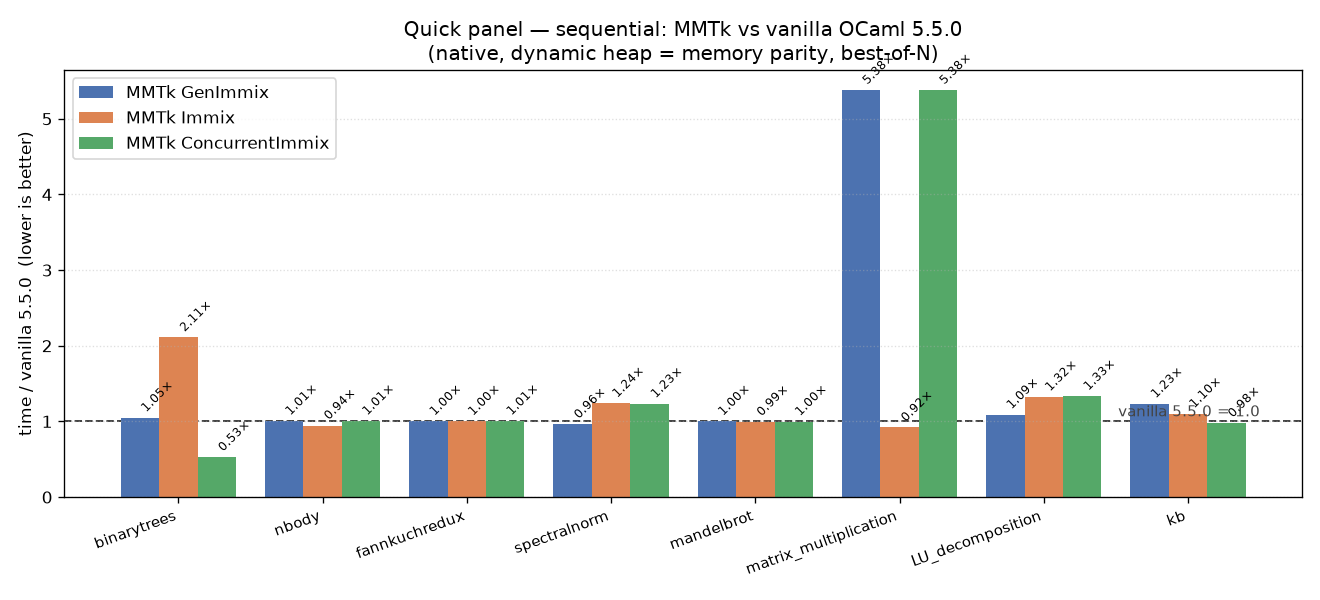
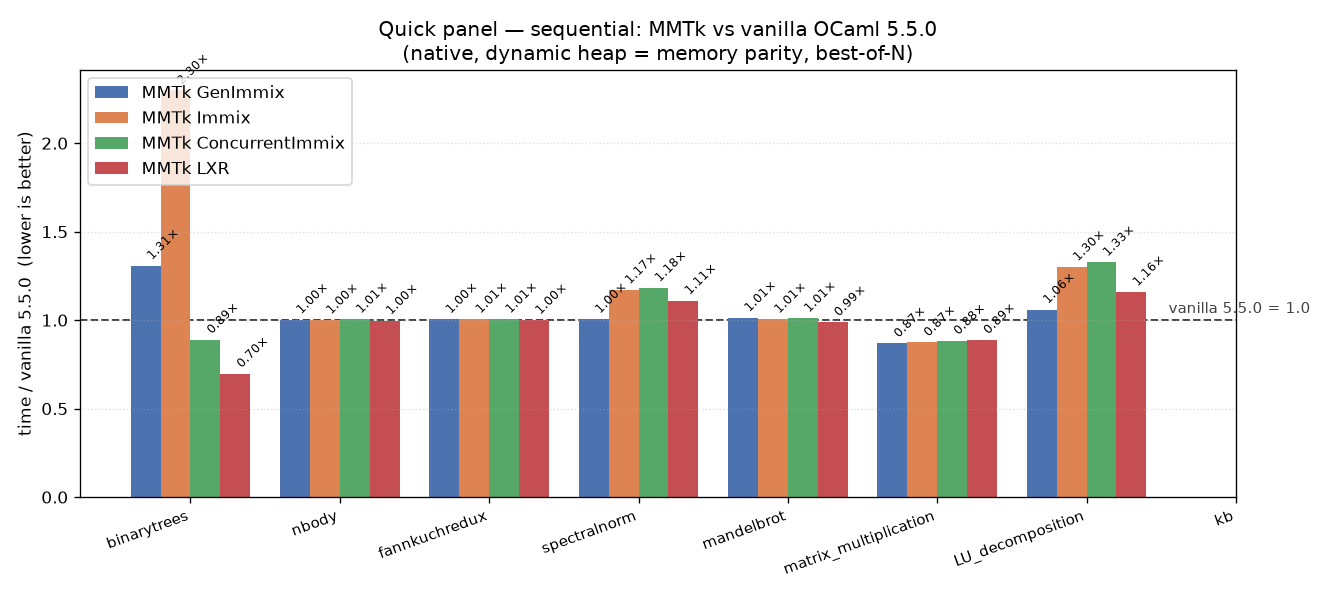
quick: measure maxRSS + render RSS chart; per-bench memory-parity heaps for LXR
quickbench.py now measures max RSS per cell (portable os.wait4 ru_maxrss, byte->KiB
on macOS) alongside wall, prints it, and renders a second graph seq_rss.png (per-bench
max RSS) below the wall chart seq_ratio.png. Adds a `--heap parity` mode + PARITY_HEAPS
so plans without a dynamic-heap trigger (LXR) are pinned per bench at each bench's
dynamic footprint — the honest memory-parity comparison (a flat generous heap makes GC
barely fire and hides the result). Regenerated both charts with vanilla/GenImmix/Immix/
ConcurrentImmix (dynamic) + LXR (parity): LXR fastest on binarytrees (0.70x vs vanilla),
at parity on compute, slower on kb, and highest RSS across the board (the RC metadata tax).

diff --git a/quick/quickbench.py b/quick/quickbench.py
@@ -17,7 +17,8 @@ the header, so `uv` fetches them per-run; no venv, no global install) that:
     group (some plans, e.g. ConcurrentImmix, deadlock on some benches),
   * prints a table (+ optional ASCII bar chart),
   * writes NDJSON results, and
-  * renders PNG graphs (seq ratio bars + speedup-vs-domains lines).
+  * renders PNG graphs (seq wall-ratio bars + seq max-RSS bars +
+    speedup-vs-domains lines).
 
 USAGE
   uv run quick/quickbench.py [seq|par|all] [options]
@@ -102,6 +103,7 @@ import signal
 import statistics
 import subprocess
 import sys
+import threading
 import time
 
 HERE = os.path.dirname(os.path.abspath(__file__))
@@ -125,6 +127,16 @@ CI = {
     "spectralnorm": "200", "mandelbrot": "200", "matrix_multiplication": "64",
     "LU_decomposition": "64", "par_spectralnorm": "200", "par_matmul": "64",
     "par_binarytrees": "12", "chameneos_redux": "2000", "kb": "5",
+}
+# Per-bench MEMORY-PARITY heaps (MiB) for `--heap parity`: each bench pinned at ~the
+# footprint the dynamic (live x2.2) policy picks for it (measured as GenImmix's dynamic
+# max RSS, M4 Pro, PERF sizes). Used to bench plans that have NO dynamic-heap trigger
+# (LXR) at the SAME memory the dynamic plans use — the honest, per-bench memory-parity
+# comparison (a flat generous heap makes GC barely fire and hides the result). RSS is
+# still measured and charted, so parity is verifiable rather than assumed.
+PARITY_HEAPS = {
+    "binarytrees": 208, "nbody": 32, "fannkuchredux": 32, "spectralnorm": 96,
+    "mandelbrot": 32, "matrix_multiplication": 48, "LU_decomposition": 112, "kb": 96,
 }
 
 COLORS = {
@@ -253,12 +265,18 @@ def threads_label(a):
     return f"nproc({os.cpu_count()})"
 
 
-def cell_env(a, plan, dom):
+def cell_env(a, plan, dom, bench=None):
     e = dict(os.environ)
     e["OCAMLLIB"] = STDLIB
     if plan:
         e["MMTK_PLAN"] = plan
-        if a.heap != "dynamic":
+        if a.heap == "parity":
+            # per-bench memory-parity heap (see PARITY_HEAPS); pin at that bench's
+            # dynamic footprint so no-dynamic-heap plans (LXR) run at the same memory.
+            hp = PARITY_HEAPS.get(bench)
+            if hp is not None:
+                e["MMTK_HEAP_SIZE_MB"] = str(hp)
+        elif a.heap != "dynamic":
             e["MMTK_HEAP_SIZE_MB"] = str(a.heap)
         # GC-worker count. Default policy "domains" sets workers = this cell's
         # domain count (single-domain -> 1 worker; the parallel sweep scales GC
@@ -271,52 +289,102 @@ def cell_env(a, plan, dom):
     return e
 
 
+def _maxrss_kib(rusage):
+    """Normalize rusage.ru_maxrss to KiB. Linux reports KiB already; macOS
+    (Darwin) reports BYTES. Returns None if unavailable."""
+    if rusage is None:
+        return None
+    try:
+        rss = rusage.ru_maxrss
+    except AttributeError:
+        return None
+    if rss is None:
+        return None
+    return (rss // 1024) if sys.platform == "darwin" else rss
+
+
 def run_once(cmd, env, timeout):
-    """Run cmd; return (elapsed_ms, status). status: 'ok'|'hang'|'err'.
-    Kills the whole process group on timeout (hung GC workers included)."""
+    """Run cmd; return (elapsed_ms, rss_kib, status). status: 'ok'|'hang'|'err'.
+    Kills the whole process group on timeout (hung GC workers included).
+    RSS (peak, KiB) comes from os.wait4's rusage on the success path; it is
+    None if the child couldn't run or was killed on timeout."""
     t0 = time.monotonic()
     try:
         p = subprocess.Popen(cmd, env=env, stdout=subprocess.DEVNULL,
                              stderr=subprocess.DEVNULL, start_new_session=True)
     except FileNotFoundError:
-        return None, "err"
-    try:
-        rc = p.wait(timeout=timeout if timeout and timeout > 0 else None)
-    except subprocess.TimeoutExpired:
+        return None, None, "err"
+
+    # Timeout/kill path: os.wait4() has no timeout, so arm a watchdog Timer that
+    # SIGKILLs the whole process group (hung GC workers included) on expiry. The
+    # kill makes the blocked wait4() below return, and we report 'hang'.
+    timed_out = {"fired": False}
+
+    def _kill_group():
+        timed_out["fired"] = True
         try:
             os.killpg(os.getpgid(p.pid), signal.SIGKILL)
-        except ProcessLookupError:
+        except (ProcessLookupError, OSError):
             pass
-        p.wait()
-        return None, "hang"
+
+    timer = None
+    if timeout and timeout > 0:
+        timer = threading.Timer(timeout, _kill_group)
+        timer.start()
+
+    # Reap with wait4 to get rusage (peak RSS). On EINTR/ECHILD fall back
+    # cleanly rather than crash.
+    rusage = None
+    try:
+        _, wstatus, rusage = os.wait4(p.pid, 0)
+        rc = os.waitstatus_to_exitcode(wstatus)
+    except ChildProcessError:
+        rc = p.poll() if p.poll() is not None else -1
+        wstatus = None
+    finally:
+        if timer is not None:
+            timer.cancel()
+    # Keep Popen's internal bookkeeping consistent (child already reaped).
+    p.returncode = rc if isinstance(rc, int) else -1
+
+    if timed_out["fired"]:
+        return None, None, "hang"
+
     ms = (time.monotonic() - t0) * 1000.0
-    return (ms, "ok" if rc == 0 else "err")
+    rss_kib = _maxrss_kib(rusage)
+    return (ms, rss_kib, "ok" if rc == 0 else "err")
 
 
 def cell_median(a, variant, bench, args, dom):
-    """Best-of-reps median wall ms for one cell, or (None,'hang')."""
+    """One cell: return (median_wall_ms, max_rss_kib, status).
+    RSS is the PEAK across the measured reps; None if unavailable.
+    status: 'ok'|'hang'|'err'|'missing'."""
     exe = os.path.join(variant["dir"], f"{bench}." + ("byte" if a.bytecode else "native"))
     if not os.path.exists(exe):
-        return None, "missing"
+        return None, None, "missing"
     launcher = [variant["ocamlrun"]] if a.bytecode else []
     argv = [str(args)] + ([str(dom)] if dom is not None else [])
     k = dom if dom else 1
     cmd = pin_prefix(a, k) + setarch_prefix(a) + launcher + [exe] + argv
-    env = cell_env(a, variant["plan"], dom)
+    env = cell_env(a, variant["plan"], dom, bench)
     for _ in range(a.warmup):
-        _, st = run_once(cmd, env, a.timeout)
+        _, _, st = run_once(cmd, env, a.timeout)
         if st == "hang":
-            return None, "hang"
+            return None, None, "hang"
     times = []
+    rss_vals = []
     for _ in range(a.reps):
-        ms, st = run_once(cmd, env, a.timeout)
+        ms, rss, st = run_once(cmd, env, a.timeout)
         if st == "hang":
-            return None, "hang"
+            return None, None, "hang"
         if ms is not None:
             times.append(ms)
+        if rss is not None:
+            rss_vals.append(rss)
     if not times:
-        return None, "err"
-    return statistics.median(times), "ok"
+        return None, None, "err"
+    max_rss = max(rss_vals) if rss_vals else None
+    return statistics.median(times), max_rss, "ok"
 
 
 # ---- formatting ------------------------------------------------------------
@@ -342,22 +410,27 @@ def write_json(path, records):
 
 # ---- run modes -------------------------------------------------------------
 def run_seq(a, variants, sizes, records):
-    print("\n## sequential   (cells: median-ms | ratio-vs-baseline)")
-    colw = 22
+    print("\n## sequential   (cells: median-ms | ratio-vs-baseline // maxRSS-MiB))")
+    colw = 24
     hdr = f"{'bench':22s}" + "".join(f"{v['label']:<{colw}}" for v in variants)
     print(hdr)
-    print(f"{'-'*10:22s}" + "".join(f"{'-'*20:<{colw}}" for _ in variants))
+    print(f"{'-'*10:22s}" + "".join(f"{'-'*22:<{colw}}" for _ in variants))
     seq_med = {}      # bench -> label -> ms|None
+    seq_rss = {}      # bench -> label -> max-RSS MiB|None
     for b in SEQ_BENCHES:
         row = f"{b:22s}"
         base = None
         seq_med[b] = {}
+        seq_rss[b] = {}
         for v in variants:
-            med, st = cell_median(a, v, b, sizes[b], None)
+            med, rss_kib, st = cell_median(a, v, b, sizes[b], None)
+            rss_mib = round(rss_kib / 1024) if (st == "ok" and rss_kib is not None) else None
             seq_med[b][v["label"]] = med if st == "ok" else None
+            seq_rss[b][v["label"]] = rss_mib
             emit(records, mode="seq", bench=b, variant=v["label"],
                  plan=v["plan"] or "vanilla", domains=1, threads=threads_label(a),
                  median_ms=med if st == "ok" else None,
+                 rss_mib=rss_mib,
                  status=("ok" if st == "ok" else "hang" if st == "hang" else st))
             if st == "missing":
                 row += f"{'n/a':<{colw}}"; continue
@@ -366,10 +439,13 @@ def run_seq(a, variants, sizes, records):
             if base is None:
                 base = med
             ratio = f"{med/base:.2f}x" if base else "-"
-            row += f"{fmt_ms(med)+' | '+ratio:<{colw}}"
+            rss_str = f"{rss_mib}M" if rss_mib is not None else "?M"
+            cell = f"{fmt_ms(med)} | {ratio} // {rss_str}"
+            row += f"{cell:<{colw}}"
         print(row)
-    print(f"(ratio is vs the first variant: {variants[0]['label'] if variants else '-'} = 1.00x)")
-    return seq_med
+    print(f"(ratio is vs the first variant: {variants[0]['label'] if variants else '-'} = 1.00x; "
+          f"maxRSS = peak RSS across reps, MiB)")
+    return seq_med, seq_rss
 
 
 def run_par(a, variants, sizes, records):
@@ -382,10 +458,12 @@ def run_par(a, variants, sizes, records):
             row = f"{v['label']:<{lw}}"
             t1 = None
             for d in a.domains:
-                med, st = cell_median(a, v, b, sizes[b], d)
+                med, rss_kib, st = cell_median(a, v, b, sizes[b], d)
+                rss_mib = round(rss_kib / 1024) if (st == "ok" and rss_kib is not None) else None
                 emit(records, mode="par", bench=b, variant=v["label"],
                      plan=v["plan"] or "vanilla", domains=d, threads=threads_label(a),
                      median_ms=med if st == "ok" else None,
+                     rss_mib=rss_mib,
                      status=("ok" if st == "ok" else "hang" if st == "hang" else st))
                 if st == "missing":
                     row += f"{'n/a':<18}"; continue
@@ -431,10 +509,12 @@ def plot_all(records, outdir):
     par = [r for r in records if r["mode"] == "par"]
 
     if seq:
-        by = {}
+        by = {}       # bench -> variant -> median_ms
+        by_rss = {}   # bench -> variant -> max RSS MiB
         variants = []
         for r in seq:
             by.setdefault(r["bench"], {})[r["variant"]] = r["median_ms"]
+            by_rss.setdefault(r["bench"], {})[r["variant"]] = r.get("rss_mib")
             if r["variant"] not in variants:
                 variants.append(r["variant"])
         benches = [b for b in SEQ_BENCHES if b in by]
@@ -465,6 +545,37 @@ def plot_all(records, outdir):
             ax.legend(loc="upper left"); ax.grid(axis="y", ls=":", alpha=0.4)
             fig.tight_layout()
             out = os.path.join(outdir, "seq_ratio.png")
+            fig.savefig(out, dpi=120); print("wrote", out)
+
+        # Companion RSS chart: absolute peak RSS (MiB) per variant, grouped by
+        # bench. All variants (incl. vanilla) shown, since memory parity is the
+        # point. Skipped if no RSS was captured. None -> 0 bar, gracefully.
+        rss_variants = [v for v in variants
+                        if any(isinstance(by_rss[b].get(v), (int, float)) for b in benches)]
+        if rss_variants and benches:
+            x = np.arange(len(benches)); w = 0.8 / len(rss_variants)
+            fig, ax = plt.subplots(figsize=(11, 5))
+            for i, v in enumerate(rss_variants):
+                vals = [by_rss[b].get(v) if isinstance(by_rss[b].get(v), (int, float)) else 0
+                        for b in benches]
+                off = (i - (len(rss_variants)-1)/2) * w
+                bars = ax.bar(x+off, vals, w,
+                              label=("vanilla 5.5.0" if v == "vanilla"
+                                     else v.replace("mmtk:", "MMTk ")),
+                              color=COLORS.get(v))
+                for r in bars:
+                    h = r.get_height()
+                    if h and np.isfinite(h):
+                        ax.annotate(f"{h:.0f}", (r.get_x()+r.get_width()/2, h),
+                                    textcoords="offset points", xytext=(0, 2),
+                                    ha="left", va="bottom", fontsize=7, rotation=45)
+            ax.set_ylabel("max RSS (MiB)  (lower is better)")
+            ax.set_title("Quick panel — sequential: max RSS (MiB), lower is better\n"
+                         "(native, dynamic heap = memory parity, peak-of-N)")
+            ax.set_xticks(x); ax.set_xticklabels(benches, rotation=20, ha="right", fontsize=9)
+            ax.legend(loc="upper left"); ax.grid(axis="y", ls=":", alpha=0.4)
+            fig.tight_layout()
+            out = os.path.join(outdir, "seq_rss.png")
             fig.savefig(out, dpi=120); print("wrote", out)
 
     if par:
@@ -531,8 +642,9 @@ def main():
 
     records = []
     seq_med = {}
+    seq_rss = {}
     if a.mode in ("seq", "all"):
-        seq_med = run_seq(a, variants, sizes, records)
+        seq_med, seq_rss = run_seq(a, variants, sizes, records)
     if a.mode in ("par", "all"):
         run_par(a, variants, sizes, records)
     if a.chart and a.mode != "par":
